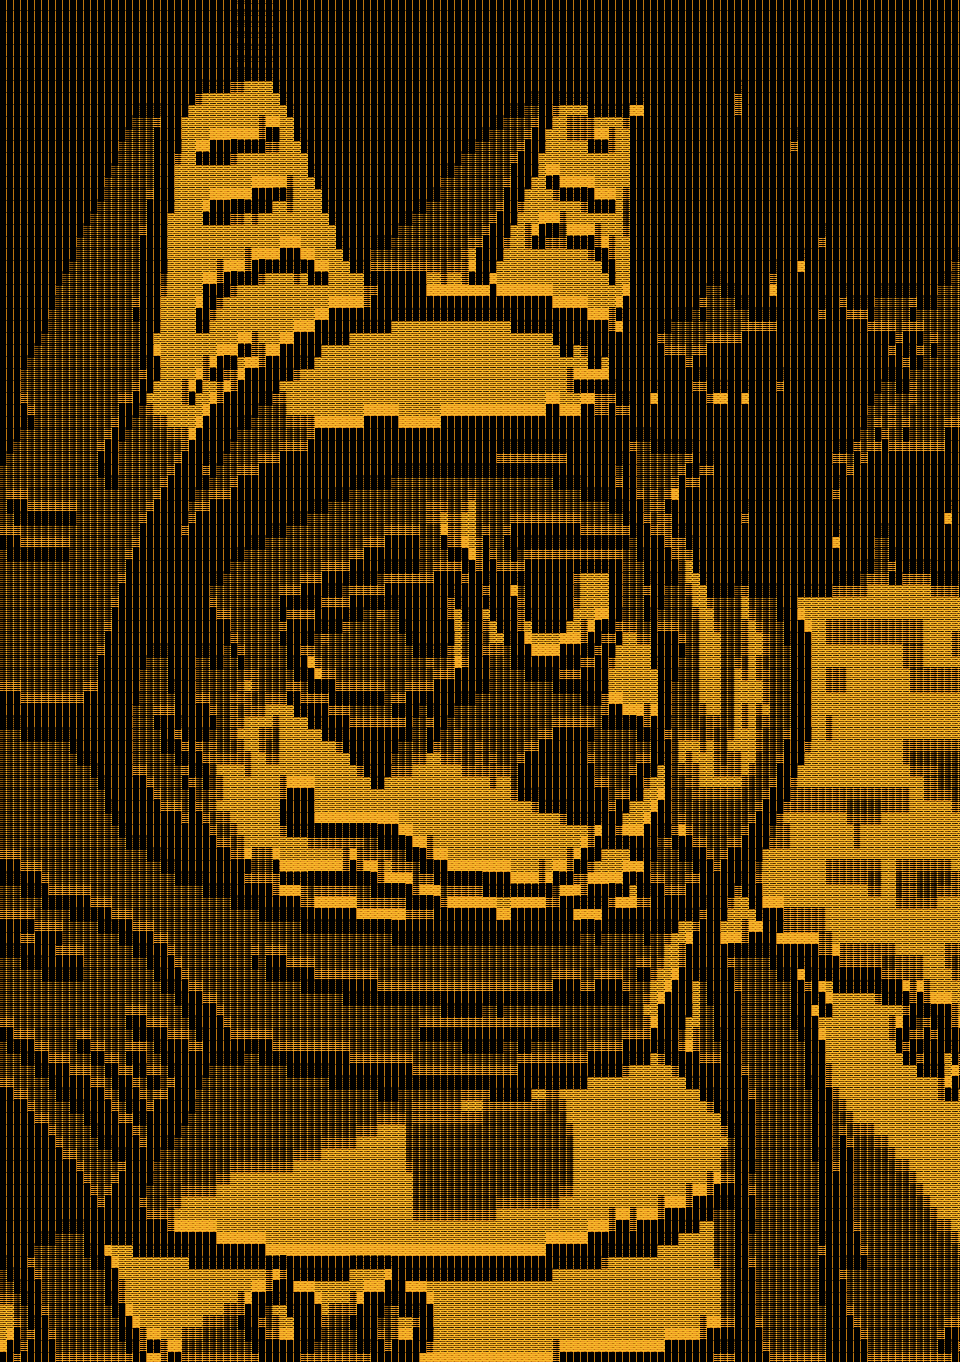
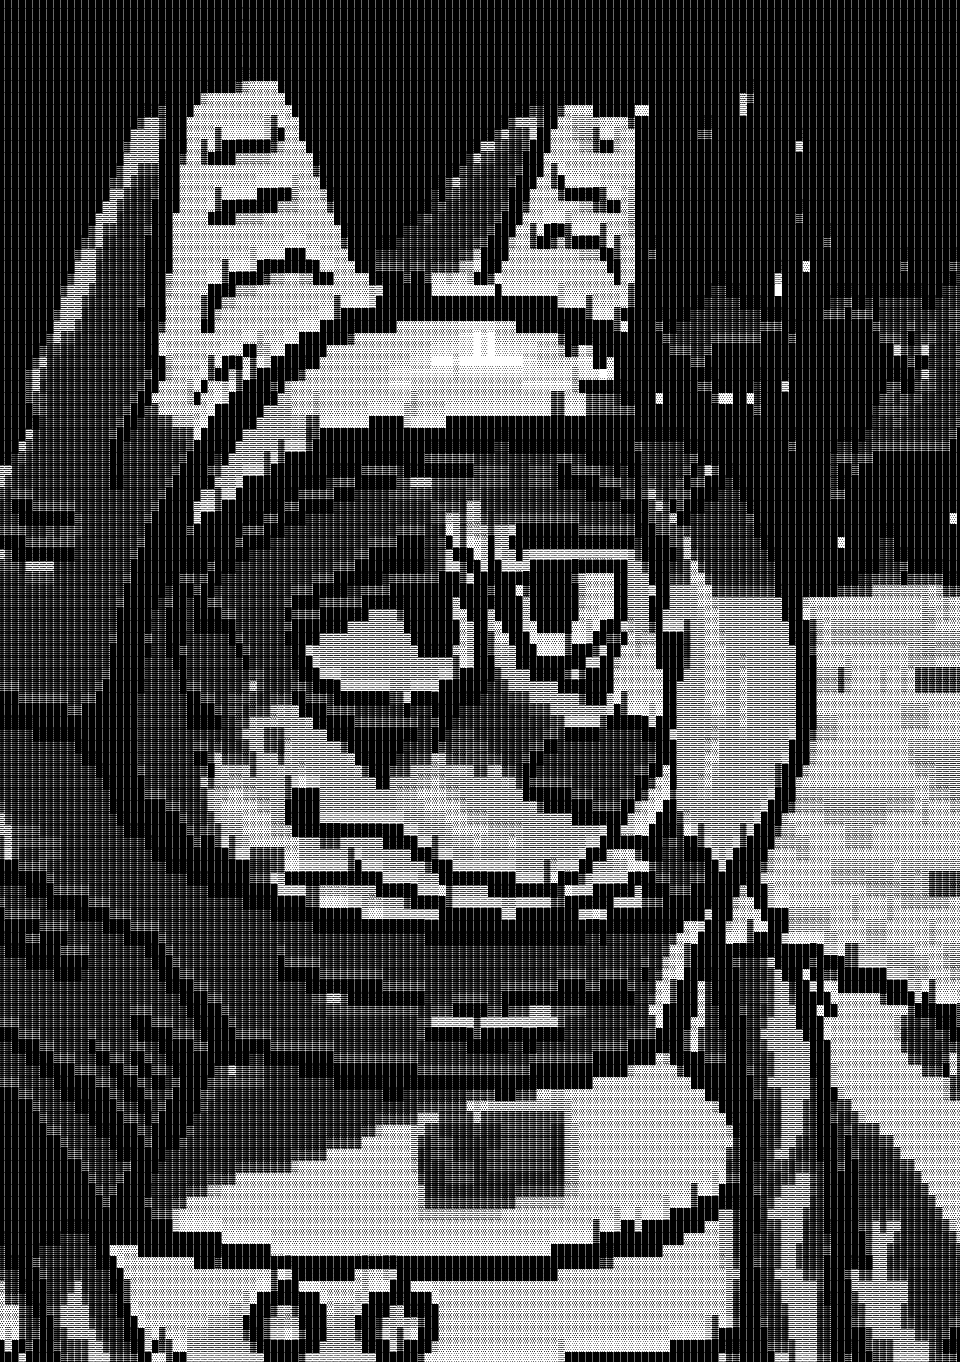
update

diff --git a/index.html b/index.html
@@ -370,7 +370,7 @@
 				
 				<!-- Actual logs go here -->
 				
-					<div class="logs">&lt;&lt; 09.02.2024 &gt;&gt; <br> 'About' section is almost finished, information about me as the image is there and works without a problem, some mistakes were mixed like spelling and words in the wrong places. </div>
+					<div class="logs">&lt;&lt; 09.02.2024 &gt;&gt; <br> 'About' section is almost finished, information about me as the image is there and works without a problem, some mistakes were mixed like spelling and words in the wrong places, images were also replaced with black and white versions temporarily. </div>
 					<div class="logs">&lt;&lt; 08.02.2024 &gt;&gt; <br> Corrected spelling, changed the first sentence of the introduction, footer now won't brake on mobile devices. </div>
 					<div class="logs">&lt;&lt; 07.02.2024 &gt;&gt; <br> Navigation panel Information will now scale in a better way, it was also filled with information about pages, added a link to the 'about' page, the page itself is still empty. </div>
 					<div class="logs">&lt;&lt; 05.02.2024 &gt;&gt; <br> The color of the scroll has been changed, footer now sticks to the bottom of the page, removed minimal width which was 960px, info navigation panel was added with descriptions. </div>

diff --git a/about.html b/about.html
@@ -205,12 +205,13 @@
 				float: right;
 				margin-right: 5%;
 				margin-top: 1.8%;
-				width: 45%;
 				border-left: 2px dotted #fa8f07;
 				height: 80%;
+				width:45%;
 			}
 			
-			.europe{}
+			.europe{
+			}
 			
 		</style>	
 		
@@ -244,10 +245,9 @@
 			
 			<div class="undermenulineLEFT"></div> <div class="undermenulineRIGHT"></div>
 			
-			<!-- <div class="europe"> <img class="tk" src="img/asciiart3.png" align="right"> </div> -->
 			
-			<!-- VERTICAL LINE -->	
-			
+			<!-- <div class="europe"> <img class="tk" src="img/asciiart3.png" align="right"> </div> -->	
+						
 			<div class="dotted-vertical-line"></div>
 		
 			<!-- ABOUT PAGE -->	
